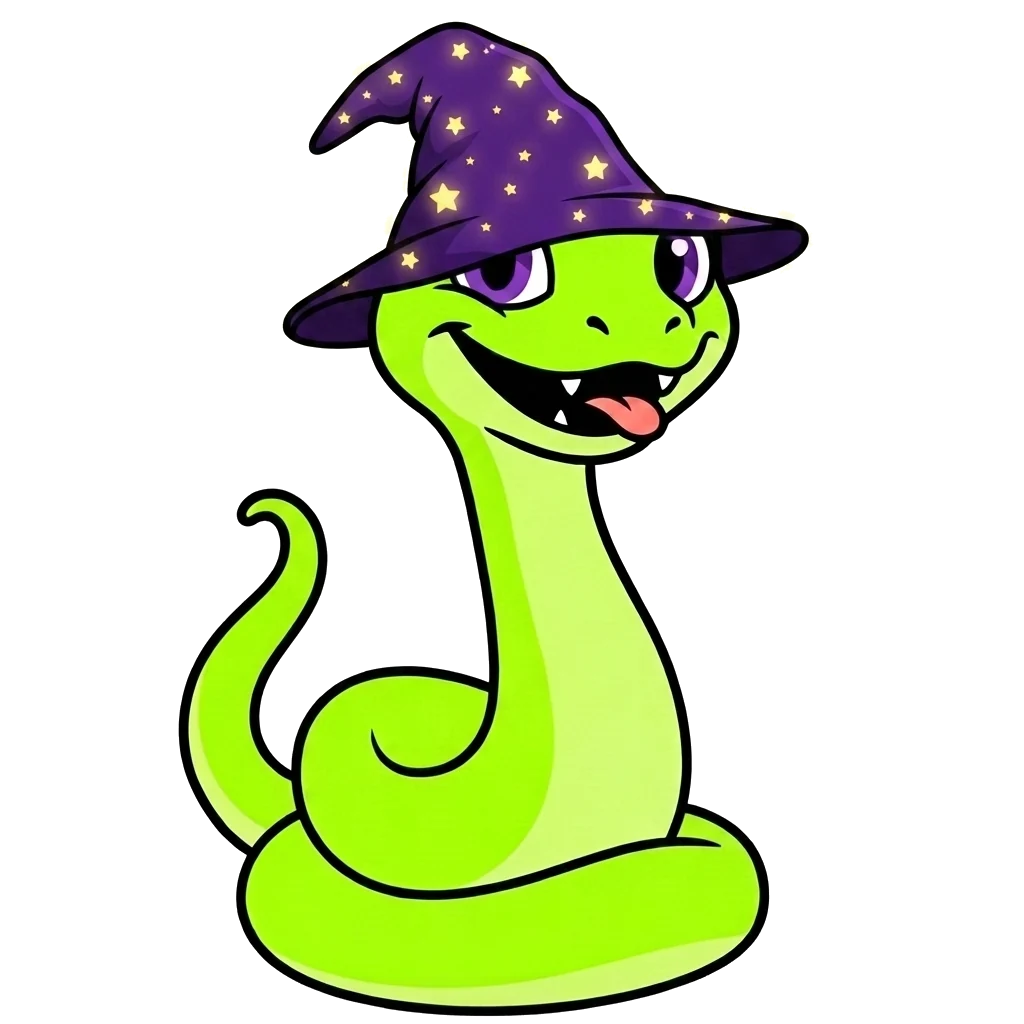
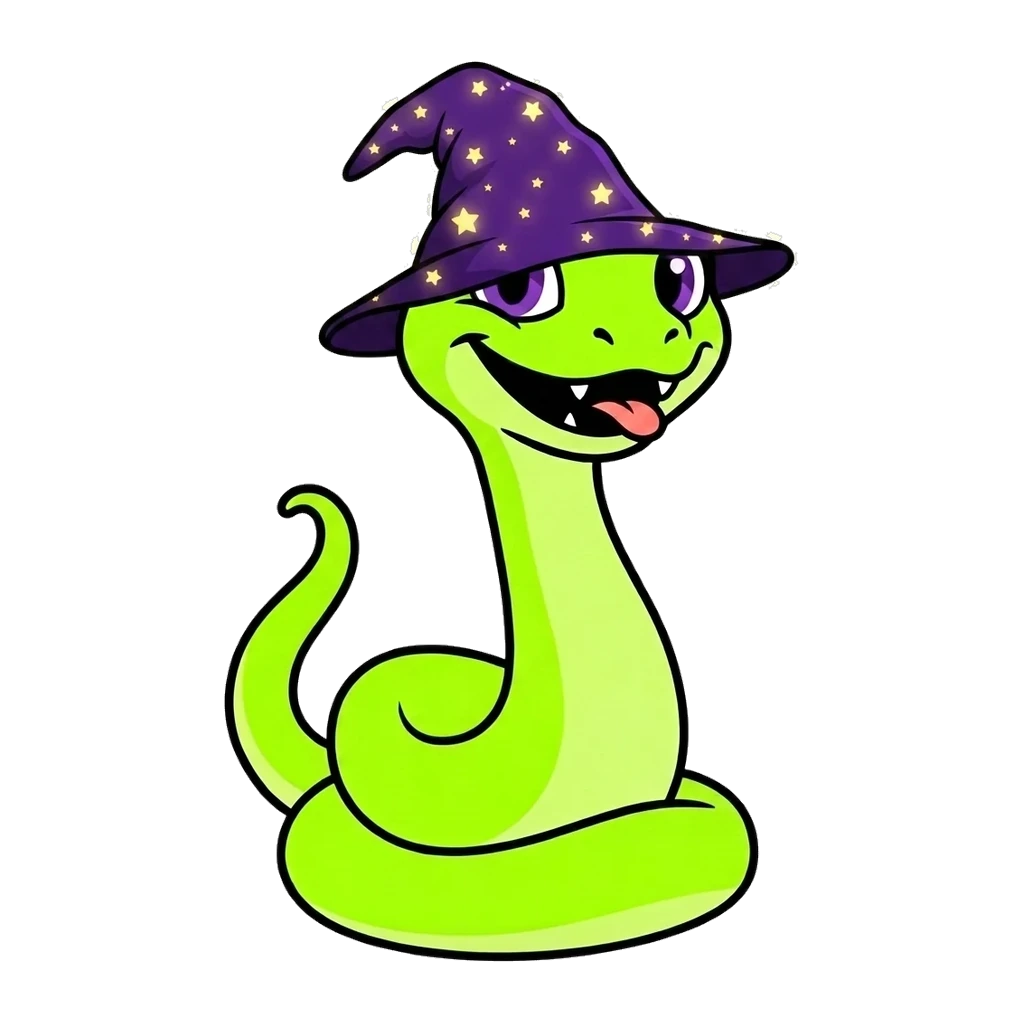
fix(wardrobe): consistent, uncropped mascot scale across the grid (#40)
* fix(wardrobe): show full item art with consistent scale

Wardrobe card thumbnails used object-cover, which cropped the
portrait-shaped item images (e.g. hat-dino, hat-detective) to fill the
square slot and made them appear zoomed in compared to the square-format
images (hat-white-cap, hat-propeller). Switch to object-contain with a
small inset so every item is shown in full, uncropped, at a uniform
framing.

Claude-Session: https://claude.ai/code/session_01JCCnNQS2kwBbJ2MAgApY6Z

* fix(wardrobe): normalize mascot art to a uniform character scale

Every wardrobe image is a full "snake wearing this item" render, but the
character occupied a different fraction of each source canvas — square
files (hat-white-cap, hat-propeller) had wide side padding while portrait
crops (hat-dino, hat-detective, hat-santa…) filled the frame, so the snake
appeared at inconsistent sizes across the grid and the mascot preview.

Trim each image to the character's alpha bounding box and re-composit it
onto a uniform 1024x1024 transparent canvas with the character at 88% height,
horizontally and vertically centered. Now every item renders the snake at
the same scale, fully visible and uncropped. File formats are preserved so
the seeded /wardrobe/*.webp|png URLs are unchanged.

Claude-Session: https://claude.ai/code/session_01JCCnNQS2kwBbJ2MAgApY6Z

---------

Changed region(s): [[0.1562, 0.0, 0.8125, 1.0]]

diff --git a/src/components/wardrobe/WardrobeGrid.tsx b/src/components/wardrobe/WardrobeGrid.tsx
@@ -186,7 +186,7 @@ function WardrobeCard({
       <div className="flex aspect-square w-full items-center justify-center rounded-xl bg-white/5">
         {item.imageUrl ? (
           // eslint-disable-next-line @next/next/no-img-element -- catalog art, remote or static
-          <img src={item.imageUrl} alt="" className="h-full w-full rounded-xl object-cover" />
+          <img src={item.imageUrl} alt="" className="h-full w-full rounded-xl object-contain p-1" />
         ) : (
           <span className="text-4xl">{wardrobeCategoryEmoji(item.category)}</span>
         )}
